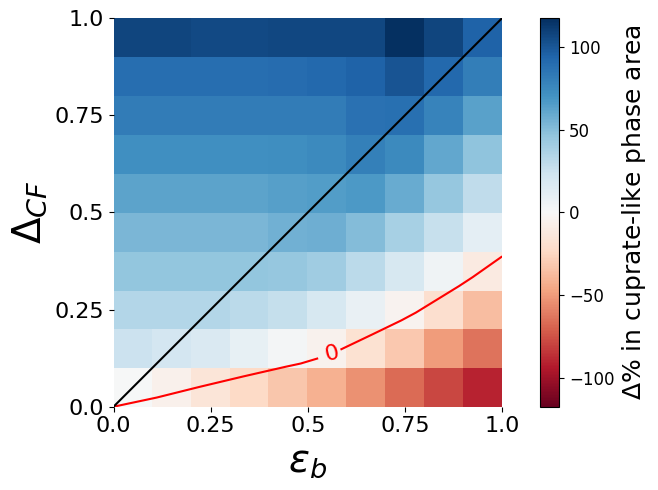
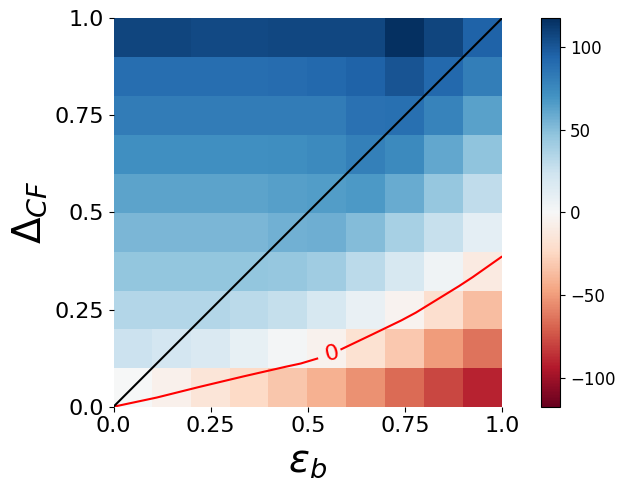
CD notation upd

Changed region(s): [[0.0912, 0.0306, 1.0, 0.8878], [0.0, 0.0, 0.1824, 0.7653], [0.4256, 0.9184, 0.5472, 0.9796]]

diff --git a/Code/Nickelates/Interpreter.py b/Code/Nickelates/Interpreter.py
@@ -32,16 +32,22 @@ def orbit_interpreter(mfps, rounding=1):
     b2 = np.einsum('ij,ijk->ijk', mfps[..., 4], b2)
     orbit = b1 + b2
 
-    orbit[(0.1 < orbit) & (orbit < 0.5)] += 0.5
-    orbit[(-0.5 < orbit) & (orbit < -0.1)] -= 0.5
+    lower_tresh = 0.1
+    upper_tresh = 0.5
+
+    orbit[(lower_tresh < orbit) & (orbit < upper_tresh)] += 0.5
+    orbit[(-upper_tresh < orbit) & (orbit < -lower_tresh)] -= 0.5
 
     orbit = np.rint(orbit*rounding)
     return orbit
 
 
-def symetries(phase):
+def symetries(phase, CM=0):
     spin, orbit = phase[:2], phase[2:]
 
+    spin = np.sign(spin)
+    orbit = np.sign(orbit)
+    # orbit = np.zeros(orbit.shape)
 
     idx = (0 in spin) or (np.product(np.sign(spin), axis=-1) == 1)
     spin[idx] = np.abs(spin)
@@ -60,11 +66,26 @@ def symetries(phase):
     spin[idx] = np.roll(spin, 1, axis=-1)
     orbit[idx] = np.roll(orbit, 1, axis=-1)
 
-    spin = np.sign(spin)
-    orbit = np.sign(orbit)
+    # idx = (spin[0] < spin[1]) & (orbit[0] < orbit[1])
+    # orbit[idx] = np.roll(orbit, 1, axis=-1)
+
+    idx = (orbit[0] == 0) & (orbit[1] == -1) # or ((orbit[0] == -1) & (orbit[1] == 0))
+    orbit[idx] = np.array([3, 4])
+
+    idx = (orbit[0] == -1) & (orbit[1] == 0)
+    orbit[idx] = np.array([3, 4])
+
+    idx = (np.abs(CM) > 0.1)
+    orbit[idx] = np.array([3, 4])
+
+    # idx = (orbit[0] == -1) & (orbit[1] == 0)
+    # orbit[idx] = np.array([-1, -1])
+
+    idx = (orbit[0] == 0) & (orbit[1] == 0) & (spin[0] == 0) & (spin[1] == 0)
+    orbit[idx] = np.array([-1, -1])
+    spin[idx] = np.array([0, 0])
 
     phase[:2], phase[2:] = spin, orbit
-
     return phase
 
 
@@ -76,7 +97,7 @@ def array_interpreter(mfp):
     orbit = orbit_interpreter(mfp)
     phase[..., 0], phase[..., 1:3], phase[..., 3:] = CM, spin, orbit
     for v in itertools.product(np.arange(mfp.shape[0]), np.arange(mfp.shape[1])):
-        phase[v][1:] = symetries(phase[v][1:])
+        phase[v][1:] = symetries(phase[v][1:], CM=CM[v])
         phase[v][1] = vec_to_int(phase[v][1:])
         phase[v][1] = state_to_pos[phase[v][1]]
     phase[..., 2] = OS
@@ -100,9 +121,17 @@ def vec_to_int(x):
 
 
 Spin_Dict = {-2: r' \Downarrow', -1: r' \downarrow', 0: r' 0', 1: r' \uparrow', 2: r' \Uparrow'}
-Orbit_Dict = {-2: r' \bar{Z}', -1: r' \bar{z}', 0: r' 0', 1: r' z', 2: r' Z'}
+Orbit_Dict = {-2: r' \bar{Z}', -1: r' \bar{z}', 0: r' 0', 1: r' z', 2: r' Z', 3: 'CD', 4: ''}
+# CD_dict = {0: r' 0', 1: r' z'}
+
 All_states_pre_sym = [np.array([i, j, k, l]) for i, j, k, l in itertools.product(np.arange(-2, 3), repeat=4)]
-All_states_post_sym = np.unique([vec_to_int(symetries(state)) for state in All_states_pre_sym], axis=0)
+
+All_states_post_sym_1 = [vec_to_int(symetries(state)) for state in All_states_pre_sym]
+All_states_post_sym_2 = [vec_to_int(symetries(state, CM=0.5)) for state in All_states_pre_sym]
+
+All_states_post_sym = np.unique(
+    All_states_post_sym_1 + All_states_post_sym_2,
+    axis=0)
 
 N_possible_states = len(All_states_post_sym)
 state_to_pos = {state: i for i, state in enumerate(All_states_post_sym)}
@@ -115,8 +144,11 @@ state_to_pos = {state: i for i, state in enumerate(All_states_post_sym)}
 
 state_to_label = {
     vec_to_int(np.array([i, j, k, l])): r'$'+Spin_Dict[i]+Spin_Dict[j] + ', ' + Orbit_Dict[k]+Orbit_Dict[l]+'$'
-    for i, j, k, l in itertools.product(np.arange(-2, 3), repeat=4)
+    for i, j, k, l in itertools.product(np.arange(-2, 3), np.arange(-2, 3), np.arange(-2, 5), np.arange(-2, 5))
 }
+
+# print(len(All_states_post_sym), len(state_to_pos), len(state_to_label))
+# print(All_states_post_sym)
 
 pos_to_label = {
     state_to_pos[state]: state_to_label[state] for state in All_states_post_sym
@@ -124,69 +156,62 @@ pos_to_label = {
 # print(pos_to_label)
 
 
-def phase_to_label(phase):
-    out = vec_to_int(symetries(phase))
+def phase_to_label(phase, symetry=True):
+    if symetry:
+        out = vec_to_int(symetries(phase))
+    else:
+        out = vec_to_int(phase)
     phase_integer = state_to_pos[out]
     phase_string = pos_to_label[phase_integer]
     return phase_string, phase_integer
 
 
 states_of_interest = np.array([
-    [0,  0, -1, -2],
     [0,  0, -1, -1],
-    [0,  0, -1,  0],
-    [0,  0,  0,  0],
-    [0,  0,  0, -1],
+    [0,  0,  3, 4],
     [1, -1, -1, -1],
     [1, -1,  1,  1],
-    [1,  0, -1, -1],
-    [1,  0, -1,  0],
+    [1,  0, 3,  4],
     [1,  1, -1, -1],
-    [1,  1,  0, -1],
     [1,  1,  0,  0],
     [1,  1,  1,  1],
-    [2,  0, -1,  0],
-    [2,  0,  0,  0],
-    [2,  1, -1, -1],
-    [2,  1, -1,  0],
-    [2,  1,  0, -1],
-    [2,  1,  0,  0]
+    [1,  1,  3,  4],
     ])
 
 
 colors_of_interest = [
-    'tab:red',
+    'tab:cyan',
+    'tab:gray',
+    'tab:green',
+    'tab:pink',
     'tab:blue',
+    'tab:orange',
+    'navajowhite',
+    'tab:brown',
+    'tab:olive',
+
     'tab:purple',
+    'tab:red',
     'red',
     'yellow',
     'green',
     'brown',
     'darkgrey',
-    'tab:green',
-    'tab:gray',
-    'tab:olive',
-    'tab:orange',
     'blue',
     'purple',
-    'tab:pink',
-    'navajowhite',
-    'tab:brown',
     'lime',
-    'tab:cyan'
 ]
 
 assert len(states_of_interest) <= len(colors_of_interest)
 
-strings_of_interest = [phase_to_label(v)[0] for v in states_of_interest]
-integers_of_interest = [phase_to_label(v)[1] for v in states_of_interest]
+strings_of_interest = [phase_to_label(v, symetry=False)[0] for v in states_of_interest]
+integers_of_interest = np.unique([phase_to_label(v, symetry=False)[1] for v in states_of_interest])
 
 
 # Let's also design our color mapping: 1s should be plotted in blue, 2s in red, etc...
 col_dict = dict(zip(
     integers_of_interest, colors_of_interest[:len(integers_of_interest)]
     ))
-
 # We create a colormar from our list of colors
 custom_cmap = ListedColormap([col_dict[x] for x in col_dict.keys()])
 
@@ -203,8 +228,12 @@ norm_bins = np.insert(norm_bins, 0, np.min(norm_bins) - 1.0)
 custom_norm = matplotlib.colors.BoundaryNorm(norm_bins, len_lab, clip=True)
 
 
+# print(integers_of_interest)
 print(f'Total Possible States: {N_possible_states}')
 # print(phase_to_label(np.array([1, -1, -1, -1])))
 # print(vec_to_int(symetries(np.array([1, -1, -1, -1]))))
 # print(state_to_pos[4222])
-# print(pos_to_label[45])
+# states = [4, 9, 13, 21, 32, 33, 34, 35, 38, 39]
+# for j in states:
+    # print(pos_to_label[j])
+# print(pos_to_label[40])

diff --git a/Code/Display/two_d_map.py b/Code/Display/two_d_map.py
@@ -12,7 +12,6 @@ def two_d_subplot(Phase, ind, ax, css, oss, uniques, font):
     spin_orb = Phase[:, :, 1]
     OS = Phase[:, :, 2]
     uniques.append(np.unique(spin_orb).astype(int))
-
     tickfont = 16
     ax[ind].set(frame_on=False)
 
@@ -46,11 +45,13 @@ def two_d_subplot(Phase, ind, ax, css, oss, uniques, font):
                                extent=(0, 1, 0, 0.2))
     ax[ind].clabel(css[ind], inline=True, fontsize=contour_font, fmt='% 1.1f')
 
-    oss[ind] = ax[ind].contour(np.abs(OS.T), colors='purple',
-                               linewidths=contour_width,
-                               levels=[0.2, 0.5, 0.9],
-                               extent=(0, 1, 0, 0.2),
-                               linestyles='dashed')
+    oss[ind] = ax[ind].contour(
+        np.abs(OS.T),
+        colors='purple',
+        linewidths=contour_width,
+        levels=[0.2, 0.5, 0.9],
+        extent=(0, 1, 0, 0.2),
+        linestyles='dashed')
 
     ax[ind].clabel(oss[ind], inline=True, fontsize=contour_font, fmt='% 1.1f')
 
@@ -94,6 +95,7 @@ def make_2d_map(Results_Folder, Batch_Folder, font=18):
         two_d_subplot(Phase, ind, ax, css, oss, uniques, font=font)
 
     uniques = np.unique(np.concatenate(uniques, axis=0))
+    print(uniques)
     col_dict = In.col_dict
     patches = [mpatches.Patch(color=col_dict[state], label=In.pos_to_label[state]) for state in uniques]
     legend = fig.legend(handles=patches, bbox_to_anchor=(1.151, 0.977), borderaxespad=0.0, prop={"size": font})

diff --git a/Code/Display/ResultsPlots.py b/Code/Display/ResultsPlots.py
@@ -119,12 +119,12 @@ def phases_plot(Phase, i_label, i_values, j_label, j_values, results_folder, fon
     countour_label_font = 20
 
     # Charge Contour
-    CS = ax.contour(np.abs(CM.T), colors='red', levels=[0.1, 0.3, 0.5],
+    CS = ax.contour(np.abs(CM.T), colors='red', levels=[0.01, 0.1, 0.3, 0.5],
                     linewidths=2, extent=(0, 1, 0, 0.2))
     ax.clabel(CS, inline=True, fontsize=countour_label_font, fmt='% 1.1f')
 
     # Orbital Contour
-    OS = ax.contour(np.abs(OS.T), colors='purple', levels=[0.1, 0.5, 0.9],
+    OS = ax.contour(np.abs(OS.T), colors='purple', levels=[0.01, 0.1, 0.5, 0.9],
                     linestyles='dashed', linewidths=2, extent=(0, 1, 0, 0.2))
 
     ax.clabel(OS, inline=True, fontsize=countour_label_font, fmt='% 1.1f')

diff --git a/Code/Scripts/metadiagrams.py b/Code/Scripts/metadiagrams.py
@@ -84,7 +84,7 @@ def make_meta_fig(MetaArray, meta_args, font=16):
     # plt.colorbar(CM)
     cbar = ax.figure.colorbar(CM)
     cbar.ax.tick_params(labelsize=12)
-    cbar.ax.set_ylabel(r'$\Delta \%$ in cuprate-like phase area', fontsize=18)
+    # cbar.ax.set_ylabel(r'$\Delta \%$ in cuprate-like phase area', fontsize=18)
 
     plt.tick_params(axis='both', which='major', labelsize=font)
     x_values = meta_args['x_values']

diff --git a/Postprocess.py b/Postprocess.py
@@ -16,9 +16,9 @@ process_guesses = False
 full_analysis = False
 
 Batch_Folders = [
-    # 'strain_zero',
+    'strain_zero',
     'strain_tensile',
-    # 'strain_compressive'
+    'strain_compressive'
     ]
 
 Results_Folder = 'Final_Results'
